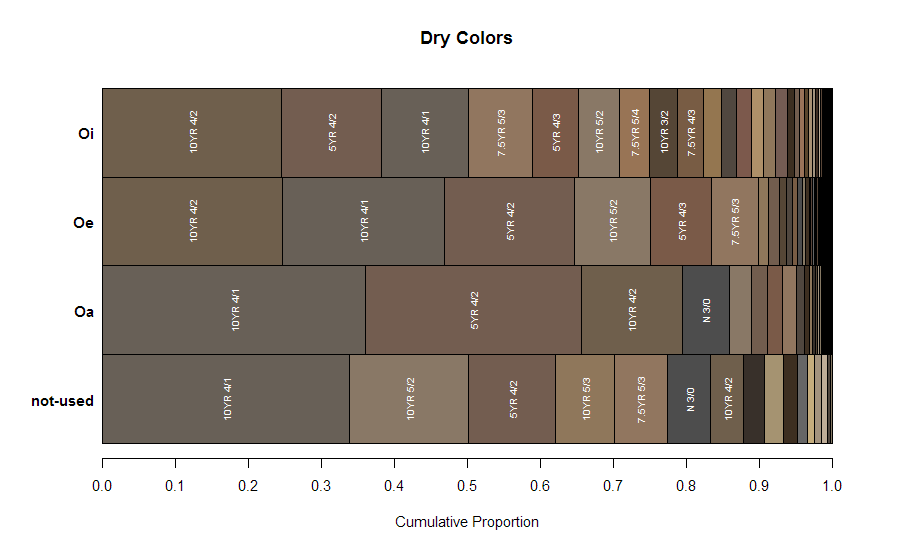
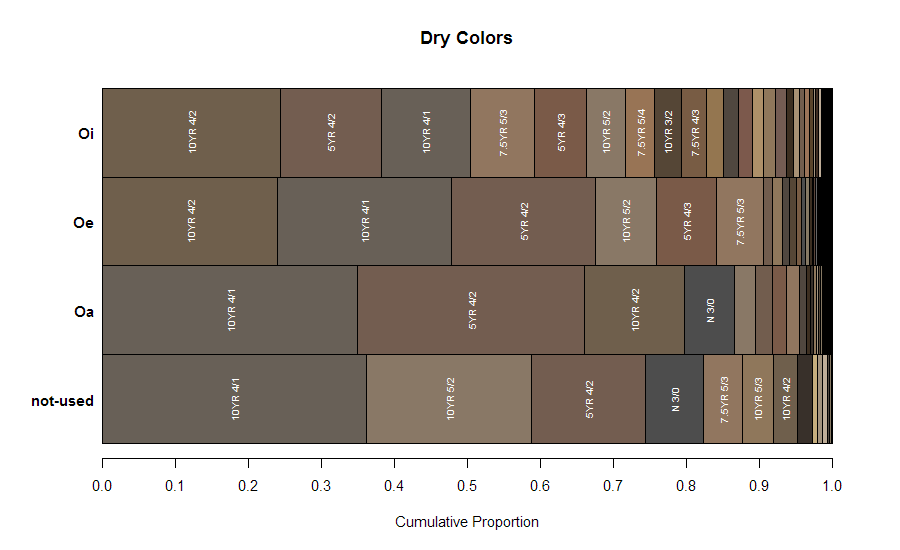
further enhancements to fill missing O horizon colors for #7
OCR errors results in zeros instead of O in the horizon name field

diff --git a/README.md b/README.md
@@ -43,10 +43,10 @@ Most O horizons in the OSD soil color DB are missing colors. What are some of th
 
 |genhz    |munsell.hue | munsell.value| munsell.chroma| munsell.sigma|col     |     red|   green|    blue|  n|
 |:--------|:-----------|-------------:|--------------:|-------------:|:-------|-------:|-------:|-------:|--:|
-|Oi       |10YR        |             4|              2|     0.0196145|#776351 | 0.46853| 0.38782| 0.31591| 46|
-|Oe       |7.5YR       |             4|              2|     0.0137197|#736252 | 0.45164| 0.38277| 0.32188| 57|
-|Oa       |7.5YR       |             4|              2|     0.0254501|#6B5D51 | 0.42105| 0.36571| 0.31879| 54|
-|not-used |7.5YR       |             4|              2|     0.0302996|#756658 | 0.45837| 0.40185| 0.34542| 16|
+|Oi       |10YR        |             4|              2|     0.0202535|#786351 | 0.46954| 0.38851| 0.31702| 45|
+|Oe       |7.5YR       |             4|              2|     0.0131792|#736152 | 0.45094| 0.38188| 0.32210| 55|
+|Oa       |7.5YR       |             4|              2|     0.0233707|#6D5E52 | 0.42616| 0.36840| 0.32122| 51|
+|not-used |7.5YR       |             4|              2|     0.0316714|#746659 | 0.45371| 0.39936| 0.34802| 14|
 
 ### Moist Colors
 ![](R/O-hz-colors-moist.png)
@@ -54,10 +54,10 @@ Most O horizons in the OSD soil color DB are missing colors. What are some of th
 
 |genhz    |munsell.hue | munsell.value| munsell.chroma| munsell.sigma|col     |     red|   green|    blue|  n|
 |:--------|:-----------|-------------:|--------------:|-------------:|:-------|-------:|-------:|-------:|--:|
-|Oi       |7.5YR       |             2|              2|     0.0349270|#49392C | 0.28582| 0.22352| 0.17364| 50|
-|Oe       |7.5YR       |             2|              2|     0.0287997|#44372C | 0.26711| 0.21434| 0.17254| 48|
-|Oa       |10YR        |             2|              1|     0.0143189|#3D322B | 0.23837| 0.19787| 0.16990| 45|
-|not-used |10YR        |             2|              2|     0.0401323|#453A30 | 0.27235| 0.22716| 0.18697| 18|
+|Oi       |7.5YR       |             2|              2|     0.0352437|#49392C | 0.28616| 0.22394| 0.17414| 50|
+|Oe       |7.5YR       |             2|              2|     0.0277540|#44362C | 0.26550| 0.21265| 0.17166| 47|
+|Oa       |10YR        |             2|              1|     0.0136850|#3D322B | 0.23778| 0.19784| 0.17046| 42|
+|not-used |10YR        |             2|              1|     0.0369132|#443A31 | 0.26820| 0.22616| 0.19025| 16|
 
 ## TODO
   * figure out how to deal with multiple colors
